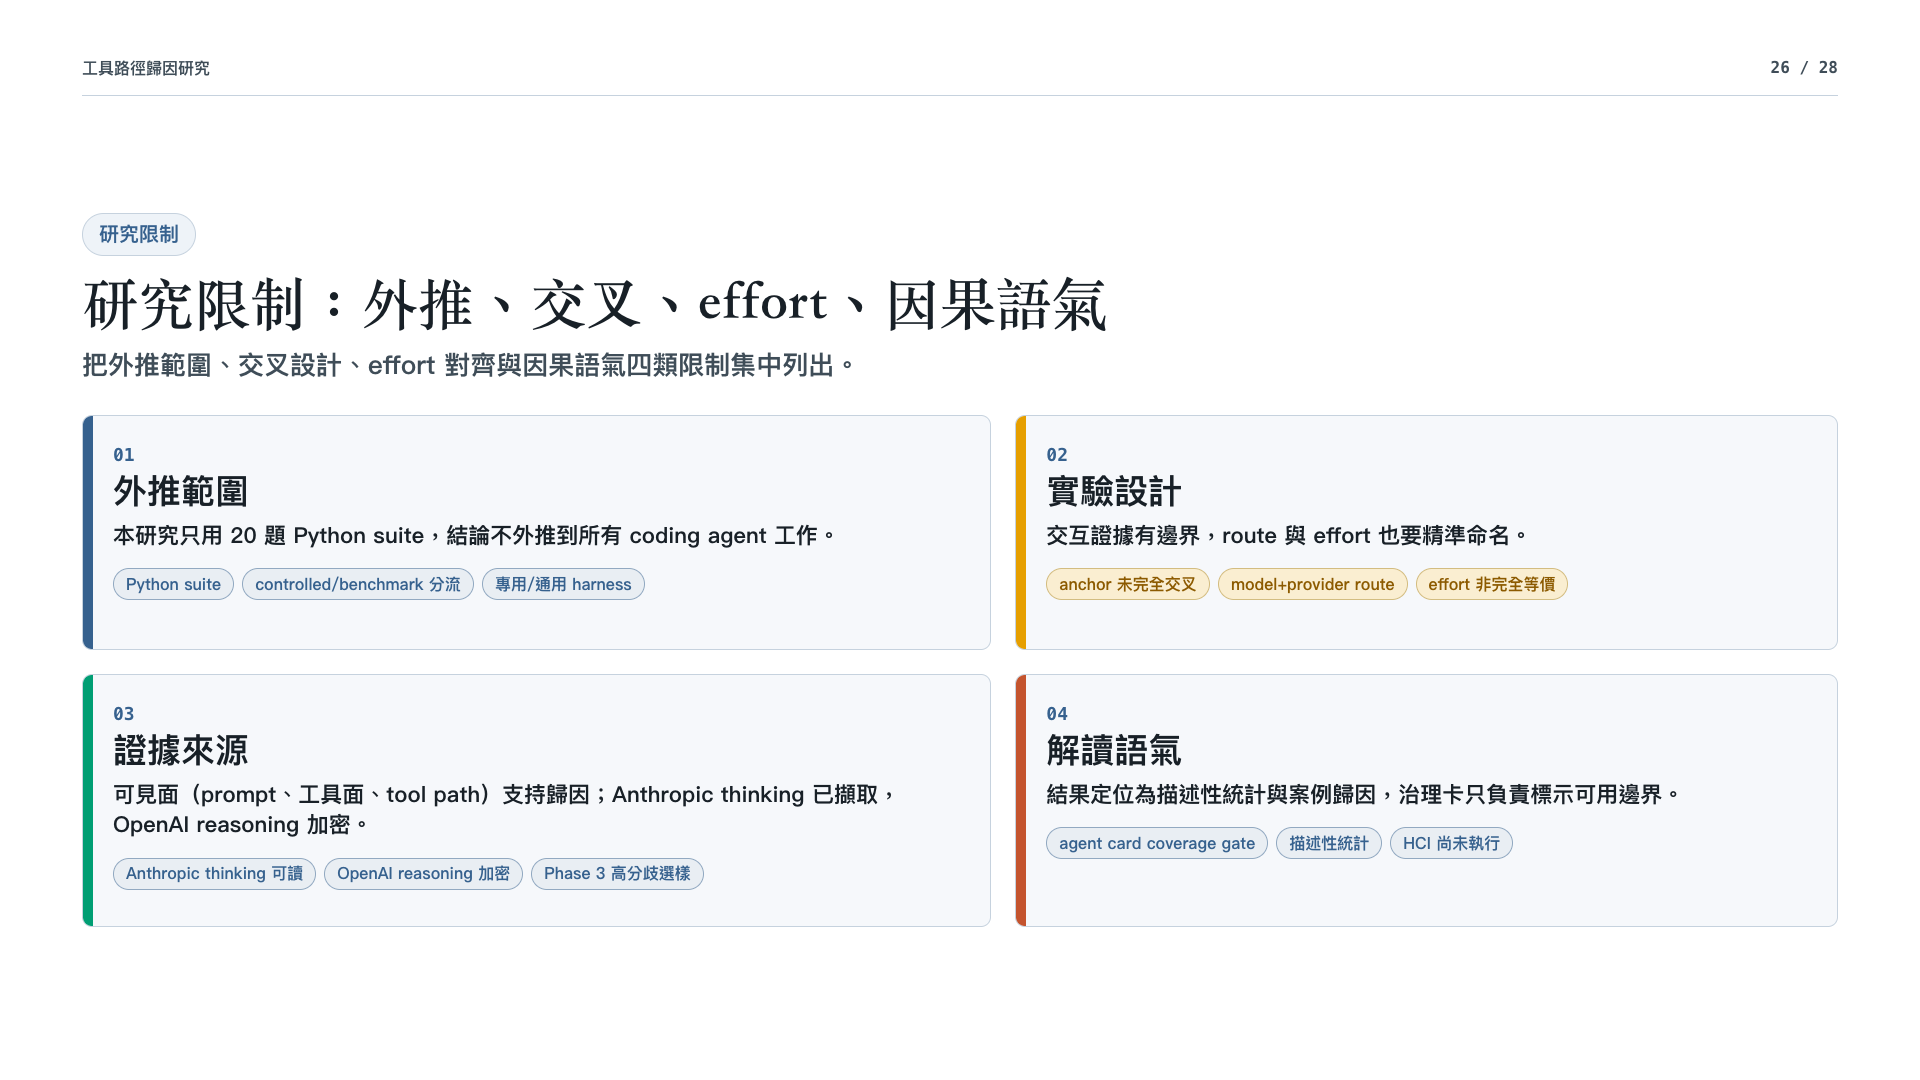
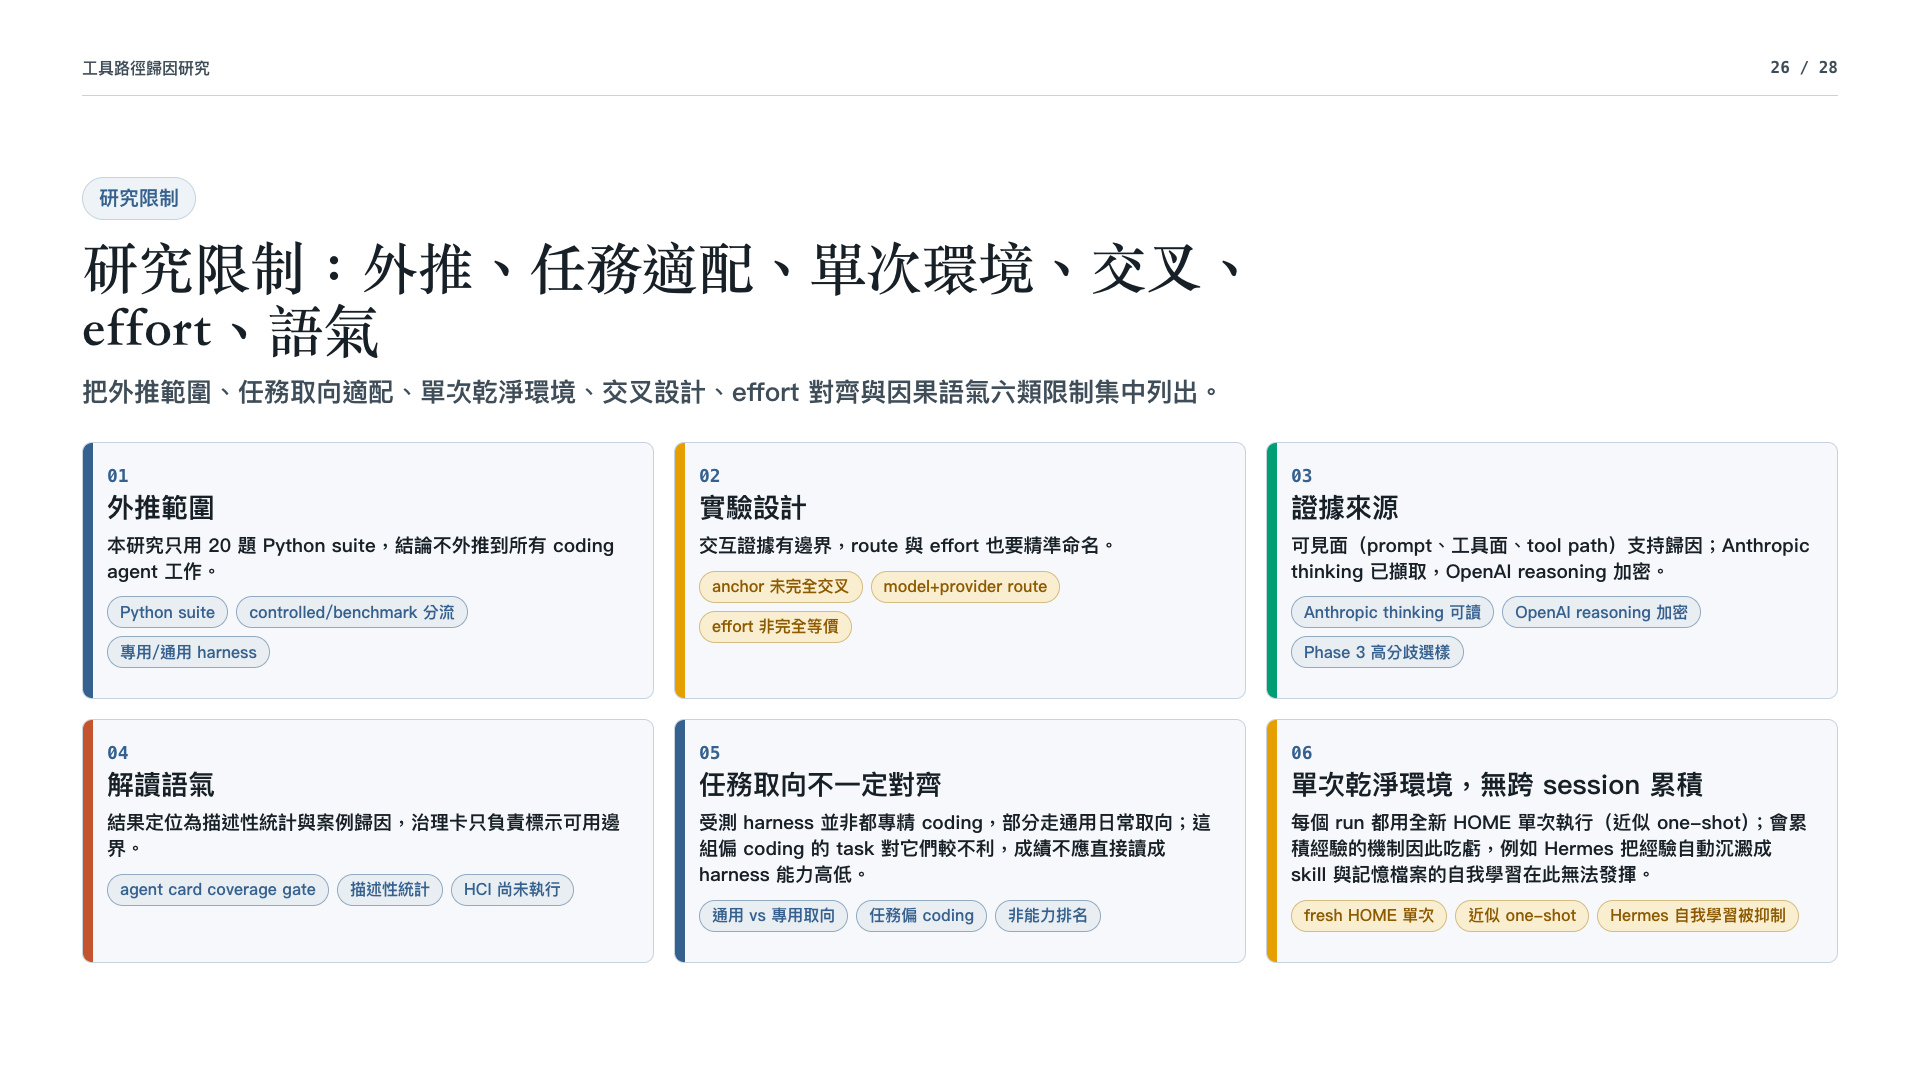
docs(phase5): add two limitations to v2_7 slide 26 + rebuild PPTX
- Slide 26: add limitation 05 (harnesses are not all coding-specialized;
  general-purpose ones are disadvantaged by the coding task suite, so
  scores are not a capability ranking) and 06 (each run is a fresh-HOME
  single shot ~ one-shot, suppressing accumulation mechanisms such as
  Hermes self-learning that distills experience into skills/memory).
  Layout rebalanced from 2x2 to a uniform 3x2 grid; title/lead updated.
- Re-rendered preview/slide-26.png via system Chrome.
- Rebuilt ppt-handoff/xAI-faithfulness-harness-v2_7.pptx (28 slides);
  MANIFEST updated.

Changed region(s): [[0.0312, 0.1528, 0.9375, 0.8861]]

diff --git a/analysis/phase5/xai-presentation-pack/ppt-handoff/v2_7/xAI-faithfulness-harness-v2_7.html b/analysis/phase5/xai-presentation-pack/ppt-handoff/v2_7/xAI-faithfulness-harness-v2_7.html
@@ -1122,13 +1122,13 @@
     }
     .limit-groups {
       display: grid;
-      grid-template-columns: 1.05fr 0.95fr;
-      gap: 24px;
+      grid-template-columns: repeat(3, 1fr);
+      gap: 20px;
     }
     .limit-group {
       position: relative;
-      min-height: 235px;
-      padding: 28px 30px;
+      min-height: 224px;
+      padding: 22px 24px;
       border: 1px solid var(--border);
       border-radius: 10px;
       background: var(--surface);
@@ -1144,6 +1144,8 @@
     .limit-group.g2::before { background: var(--warn); }
     .limit-group.g3::before { background: var(--success); }
     .limit-group.g4::before { background: var(--accent-2); }
+    .limit-group.g5::before { background: var(--accent); }
+    .limit-group.g6::before { background: var(--warn); }
     .limit-nb {
       font-family: var(--font-mono);
       color: var(--accent);
@@ -1151,16 +1153,16 @@
       font-weight: 800;
     }
     .limit-group h3 {
-      margin: 8px 0 10px;
-      font-size: 34px;
-      line-height: 1.05;
+      margin: 6px 0 10px;
+      font-size: 27px;
+      line-height: 1.1;
     }
     .limit-group p {
       color: var(--fg);
-      font-size: 22px;
-      line-height: 1.38;
+      font-size: 19px;
+      line-height: 1.36;
       font-weight: 680;
-      margin-bottom: 18px;
+      margin-bottom: 12px;
     }
     .closing {
       max-width: 1540px;
@@ -2296,8 +2298,8 @@
         
       <div>
         <p class="kicker">研究限制</p>
-        <h1 class="title tight-title">研究限制：外推、交叉、effort、因果語氣</h1>
-        <p class="lead tight-lead">把外推範圍、交叉設計、effort 對齊與因果語氣四類限制集中列出。</p>
+        <h1 class="title tight-title">研究限制：外推、任務適配、單次環境、交叉、effort、語氣</h1>
+        <p class="lead tight-lead">把外推範圍、任務取向適配、單次乾淨環境、交叉設計、effort 對齊與因果語氣六類限制集中列出。</p>
       </div>
       <div class="limit-groups">
     <article class="limit-group g1">
@@ -2320,6 +2322,16 @@
       <h3>解讀語氣</h3>
       <p>結果定位為描述性統計與案例歸因，治理卡只負責標示可用邊界。</p>
       <div><span class="pill accent">agent card coverage gate</span><span class="pill accent">描述性統計</span><span class="pill accent">HCI 尚未執行</span></div>
+    </article><article class="limit-group g5">
+      <span class="limit-nb">05</span>
+      <h3>任務取向不一定對齊</h3>
+      <p>受測 harness 並非都專精 coding，部分走通用日常取向；這組偏 coding 的 task 對它們較不利，成績不應直接讀成 harness 能力高低。</p>
+      <div><span class="pill accent">通用 vs 專用取向</span><span class="pill accent">任務偏 coding</span><span class="pill accent">非能力排名</span></div>
+    </article><article class="limit-group g6">
+      <span class="limit-nb">06</span>
+      <h3>單次乾淨環境，無跨 session 累積</h3>
+      <p>每個 run 都用全新 HOME 單次執行（近似 one-shot）；會累積經驗的機制因此吃虧，例如 Hermes 把經驗自動沉澱成 skill 與記憶檔案的自我學習在此無法發揮。</p>
+      <div><span class="pill warn">fresh HOME 單次</span><span class="pill warn">近似 one-shot</span><span class="pill warn">Hermes 自我學習被抑制</span></div>
     </article>
   </div>
     

diff --git a/analysis/phase5/xai-presentation-pack/ppt-handoff/v2_7/MANIFEST-v2_7.md b/analysis/phase5/xai-presentation-pack/ppt-handoff/v2_7/MANIFEST-v2_7.md
@@ -27,6 +27,7 @@ v2_7 修訂重點:
 - Slide 07 補上 20 題任務類型；Slide 27 加入平均 token 用量分析。
 - 可見文字移除長破折號與 en dash。
 - Slide 09 新增第六張取捨卡「reasoning effort 全部固定為 high」，補上 proposal 取捨③理由（低 effort 會把失敗誤歸因到模型 under-utilization 而非 harness），版面改為均衡 2x3。
+- Slide 26 研究限制新增兩點，版面改為 3x2 六卡：05 任務取向不一定對齊（harness 非全是 coding 專精，通用型對 coding task 吃虧，成績非能力排名）；06 單次乾淨環境無跨 session 累積（每 run fresh HOME ≈ one-shot，抑制累積機制，例如 Hermes 自動沉澱經驗成 skill／記憶的自我學習）。
 
 PPTX 交付:
 - `../xAI-faithfulness-harness-v2_7.pptx`（28 頁、16:9）由 `build-pptx-v2_7.py` 把 `preview/slide-01..28.png` 每頁整頁鋪滿生成；單頁重渲染用 `render-slide.py`（系統 Chrome，對齊 macOS 字型）。